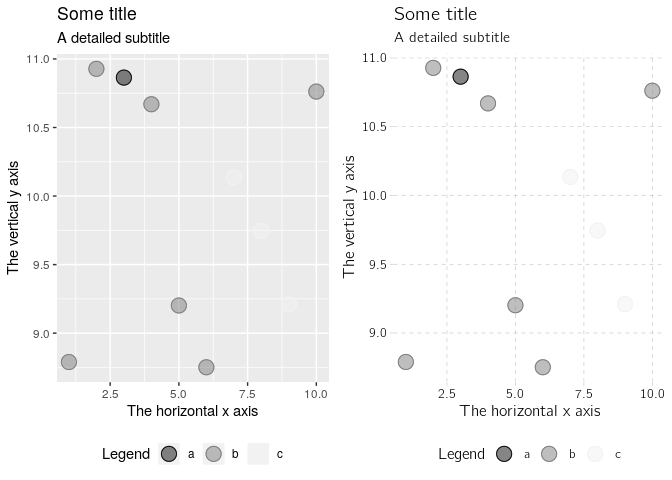
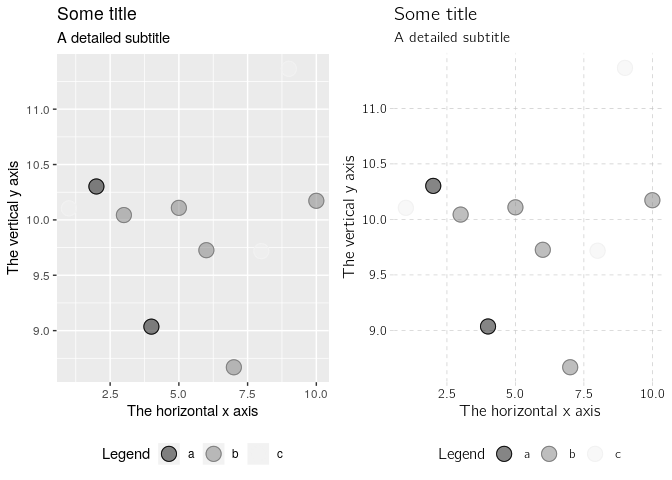
fixed feldman plot errors

diff --git a/README.html b/README.html
@@ -72,7 +72,7 @@ Rmisc<span class="op">::</span><span class="kw">multiplot</span>(g,
                  g <span class="op">+</span><span class="st"> </span><span class="kw">theme_sfi</span>() <span class="op">+</span>
 <span class="st">                   </span><span class="kw">theme</span>(<span class="dt">legend.position =</span> <span class="st">'bottom'</span>),
                  <span class="dt">cols =</span> <span class="dv">2</span>)</code></pre></div>
[2 lines of base64/hex data omitted]
 
 </body>
 </html>

diff --git a/tables/alexander_1.tex b/tables/alexander_1.tex
@@ -1,0 +1,45 @@
+
+\begin{longtable}{ll>{\raggedright\arraybackslash}p{30em}}
+\toprule
+Case number & Date & Docket text\\
+\midrule
+1:10-cv-00002-ODE & 1/4/2010 & NOTICE OF REMOVAL with COMPLAINT, filed by Children's Healthcare of Atlanta, Inc.. Consent form to proceed before U.S. Magistrate and pretrial instructions provided. (Filing fee \$ 350.00 receipt number 19815) (Attachments: \# 1 Exhibit A, \# 2 Civil Cover Sheet)(eop) Please visit our website at http://www.gand.uscourts.gov to obtain Pretrial Instructions. (Entered: 01/04/2010)\\
+1:10-cv-00002-ODE & 1/5/2010 & Unopposed MOTION for Extension of Time to File Answer by Children's Healthcare of Atlanta, Inc.. (Attachments: \# 1 Text of Proposed Order)(Kotun, Melissa) (Entered: 01/05/2010)\\
+1:10-cv-00002-ODE & 1/5/2010 & ORDER granting 2 Motion for Extension of Time to Answer; Children's Healthcare of Atlanta, Inc.'s Answer due 1/29/2010. Signed by Magistrate Judge Russell G. Vineyard on 1/5/2010. (ank) (Entered: 01/05/2010)\\
+1:10-cv-00002-ODE & 1/29/2010 & ANSWER to 1 NOTICE OF REMOVAL with Complaint by Children's Healthcare of Atlanta, Inc.. Discovery ends on 6/28/2010.(Kotun, Melissa) Please visit our website at http://www.gand.uscourts.gov to obtain Pretrial Instructions. (Entered: 01/29/2010)\\
+1:10-cv-00002-ODE & 1/29/2010 & Certificate of Interested Persons by Children's Healthcare of Atlanta, Inc.. (Kotun, Melissa) (Entered: 01/29/2010)\\
+\addlinespace
+1:10-cv-00002-ODE & 2/2/2010 & Guidelines for Discovery and Motion Practice. Signed by Magistrate Judge Russell G. Vineyard on 2/2/2010. (ank) (Entered: 02/03/2010)\\
+1:10-cv-00002-ODE & 2/23/2010 & Joint PRELIMINARY REPORT AND DISCOVERY PLAN filed by Emmanuel Nketop, Children's Healthcare of Atlanta, Inc.. (Kotun, Melissa) (Entered: 02/23/2010)\\
+1:10-cv-00002-ODE & 2/27/2010 & Initial Disclosures by Emmanuel Nketop.(Fuchs, Dean) (Entered: 02/27/2010)\\
+1:10-cv-00002-ODE & 3/2/2010 & Initial Disclosures by Children's Healthcare of Atlanta, Inc..(Kotun, Melissa) (Entered: 03/02/2010)\\
+1:10-cv-00002-ODE & 3/5/2010 & Certificate of Interested Persons by Emmanuel Nketop. (Fuchs, Dean) (Entered: 03/05/2010)\\
+\addlinespace
+1:10-cv-00002-ODE & 3/10/2010 & SCHEDULING ORDER approving the 7 Preliminary Report and Discovery Plan. Discovery ends on 6/28/2010. Summary Judgment Motions due by 7/28/2010. Proposed Consolidated Pretrial Order due by 8/9/2010. The Clerk is DIRECTED to submit the action by 8/19/2010 if the parties have not filed a motion for summary judgment or proposed consolidated pretrial order. The Clerk is DIRECTED to change the docket to reflect the correct spelling of the Plaintiff's last name as "Ntekop." Signed by Magistrate Judge Russell G. Vineyard on 3/9/2010. (ank) (Entered: 03/10/2010)\\
+1:10-cv-00002-ODE & 4/2/2010 & CERTIFICATE OF SERVICE filed by Children's Healthcare of Atlanta, Inc. Defendant's First Interrogatories (Kotun, Melissa) (Entered: 04/02/2010)\\
+1:10-cv-00002-ODE & 4/2/2010 & CERTIFICATE OF SERVICE filed by Children's Healthcare of Atlanta, Inc. Defendant's First Request for Production of Documents (Kotun, Melissa) (Entered: 04/02/2010)\\
+1:10-cv-00002-ODE & 4/19/2010 & CERTIFICATE OF SERVICE re: Plaintiff's First Interrogatories to Defendant by Emmanuel Ntekop.(Fuchs, Dean) (Entered: 04/19/2010)\\
+1:10-cv-00002-ODE & 4/19/2010 & CERTIFICATE OF SERVICE re: Plaintiff's First Request for Production of Documents to Defendant by Emmanuel Ntekop.(Fuchs, Dean) (Entered: 04/19/2010)\\
+\addlinespace
+1:10-cv-00002-ODE & 5/5/2010 & CERTIFICATE OF SERVICE re: Plaintiff's Responses to Defendant's First Interrogatories by Emmanuel Ntekop.(Fuchs, Dean) (Entered: 05/05/2010)\\
+1:10-cv-00002-ODE & 5/5/2010 & CERTIFICATE OF SERVICE re: Plaintiff's Responses to Defendant's First Request for Production of Documents by Emmanuel Ntekop.(Fuchs, Dean) (Entered: 05/05/2010)\\
+1:10-cv-00002-ODE & 5/10/2010 & JOINT STIPULATION and Proposed Order of Confidentiality by Emmanuel Ntekop, Children's Healthcare of Atlanta, Inc.. (Kotun, Melissa) Modified on 5/10/2010 in order to update docket text (ank). (Entered: 05/10/2010)\\
+1:10-cv-00002-ODE & 5/11/2010 & STIPULATION AND ORDER OF CONFIDENTIALITY. Signed by Magistrate Judge Russell G. Vineyard on 5/11/2010. (ank) (Entered: 05/12/2010)\\
+1:10-cv-00002-ODE & 6/22/2010 & ORDER REASSIGNING CASE. Case reassigned to Magistrate Judge Walter E. Johnson for all further proceedings. Magistrate Judge Russell G. Vineyard no longer assigned to case. Signed by Magistrate Judge Russell G. Vineyard on 6/22/2010. (ank) (Entered: 06/23/2010)\\
+\addlinespace
+1:10-cv-00002-ODE & 6/23/2010 & NOTICE TO ALL COUNSEL OF RECORD re Magistrate Judge reassignment (ank) (Entered: 06/23/2010)\\
+1:10-cv-00002-ODE & 6/24/2010 & Joint MOTION for Extension of Time to Complete Discovery by Emmanuel Ntekop, Children's Healthcare of Atlanta, Inc.. (Attachments: \# 1 Text of Proposed Order)(Kotun, Melissa) (Entered: 06/24/2010)\\
+1:10-cv-00002-ODE & 6/29/2010 & ORDER granting 22 Motion for Extension of Time to Complete Discovery. Discovery ends on 9/15/2010. All post-discovery deadlines are likewise extended. Signed by Magistrate Judge Walter E. Johnson on 6/29/10. (klb) (Entered: 06/29/2010)\\
+1:10-cv-00002-ODE & 8/3/2010 & Request for Leave of Absence for the following date(s): 8/23, 8/24, 8/25, 8/26, 8/27, 8/30, 8/31, 9/1, 9/2, 9/3, 9/6, 9/7/2010, by Dean Richard Fuchs. (Fuchs, Dean) (Entered: 08/03/2010)\\
+1:10-cv-00002-ODE & 9/13/2010 & Joint MOTION for Extension of Time to Complete Discovery (Second) by Children's Healthcare of Atlanta, Inc., Emmanuel Ntekop. (Attachments: \# 1 Text of Proposed Order)(Kotun, Melissa) (Entered: 09/13/2010)\\
+\addlinespace
+1:10-cv-00002-ODE & 10/13/2010 & STIPULATION of Dismissal With Prejudice by Children's Healthcare of Atlanta, Inc., Emmanuel Ntekop. (Fuchs, Dean) (Entered: 10/13/2010)\\
+1:10-cv-00002-ODE & 1/4/2010 & Submission of 1 Notice of Removal for Review, submitted to District Judge Orinda D. Evans. (eop) (Entered: 01/04/2010)\\
+1:10-cv-00002-ODE & 6/29/2010 & Reset Scheduling Order Deadlines: Discovery ends on 9/15/2010. Motions for summary judgment due 10/15/10. Proposed Pretrial Order due by 10/15/2010 or within 30 days from a final ruling on any motion for summary judgment that is not dispositive of all claims. (klb) (Entered: 06/29/2010)\\
+1:10-cv-00002-ODE & 9/14/2010 & ORAL ORDER granting 25 Joint Motion for Extension of Time to Complete Discovery Discovery ends on 9/24/2010. All post-discovery deadlines are likewise extended. Entered by Magistrate Judge Walter E. Johnson on 9/14/10. (klb) (Entered: 09/14/2010)\\
+1:10-cv-00002-ODE & 9/14/2010 & Reset Scheduling Order Deadlines: Discovery ends on 9/24/2010. Motions for summary judgment due 10/25/10. Proposed Pretrial Order due by 10/25/2010 or within 30 days from a final ruling on any motion for summary judgment that is not dispositive of all claims.(klb) (Entered: 09/14/2010)\\
+\addlinespace
+1:10-cv-00002-ODE & 10/13/2010 & Clerk's Entry of Dismissal APPROVING 26 Stipulation of Dismissal pursuant to Fed.R.Civ.P.41(a)(1)(ii) (ank) (Entered: 10/15/2010)\\
+1:10-cv-00002-ODE & 10/13/2010 & Civil Case Terminated. Magistrate Judge Walter E. Johnson terminated from case. (ank) (Entered: 10/15/2010)\\
+\bottomrule
+\end{longtable}

diff --git a/tables/alexander_4.tex b/tables/alexander_4.tex
@@ -1,0 +1,1 @@
+Exemption Color Race National origin Religion Sex Retaliation Indian Middle Eastern Hispanic/Latino Asian American African American Native American 0.05 0 0.24 0.05 0.02 0.26 0.38 0.05 0.01 0.15 0.08 0.71 0.001
